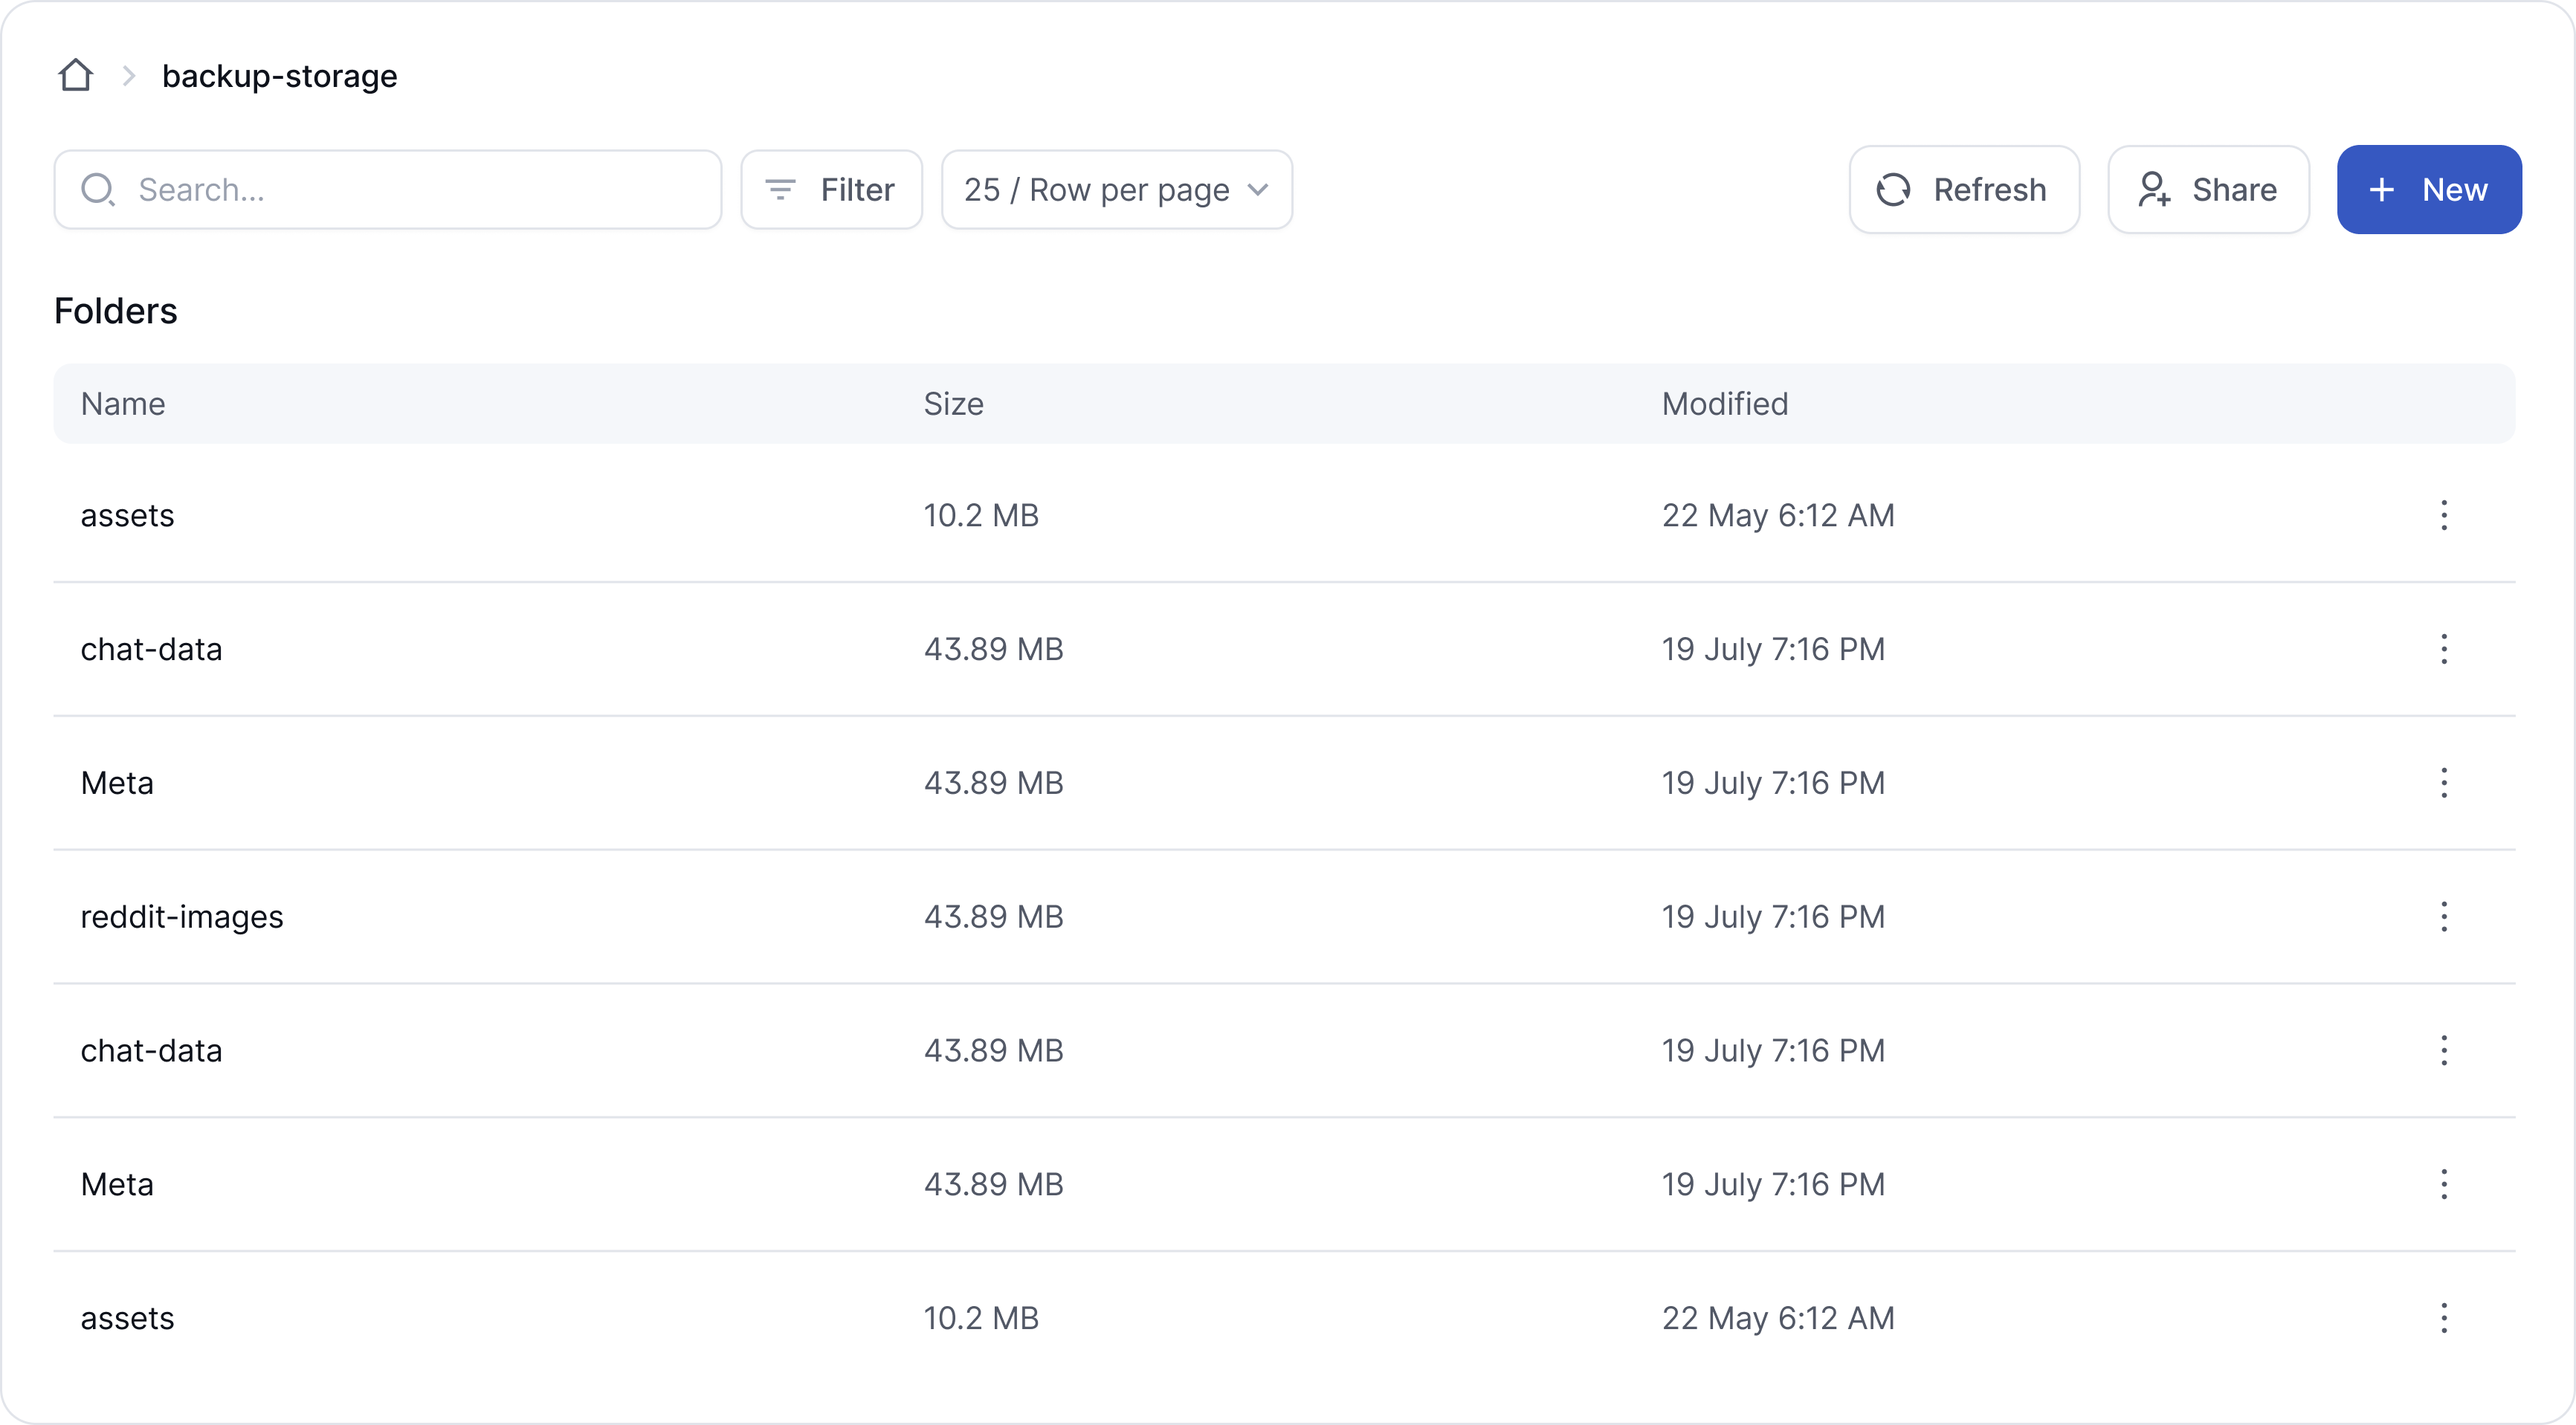
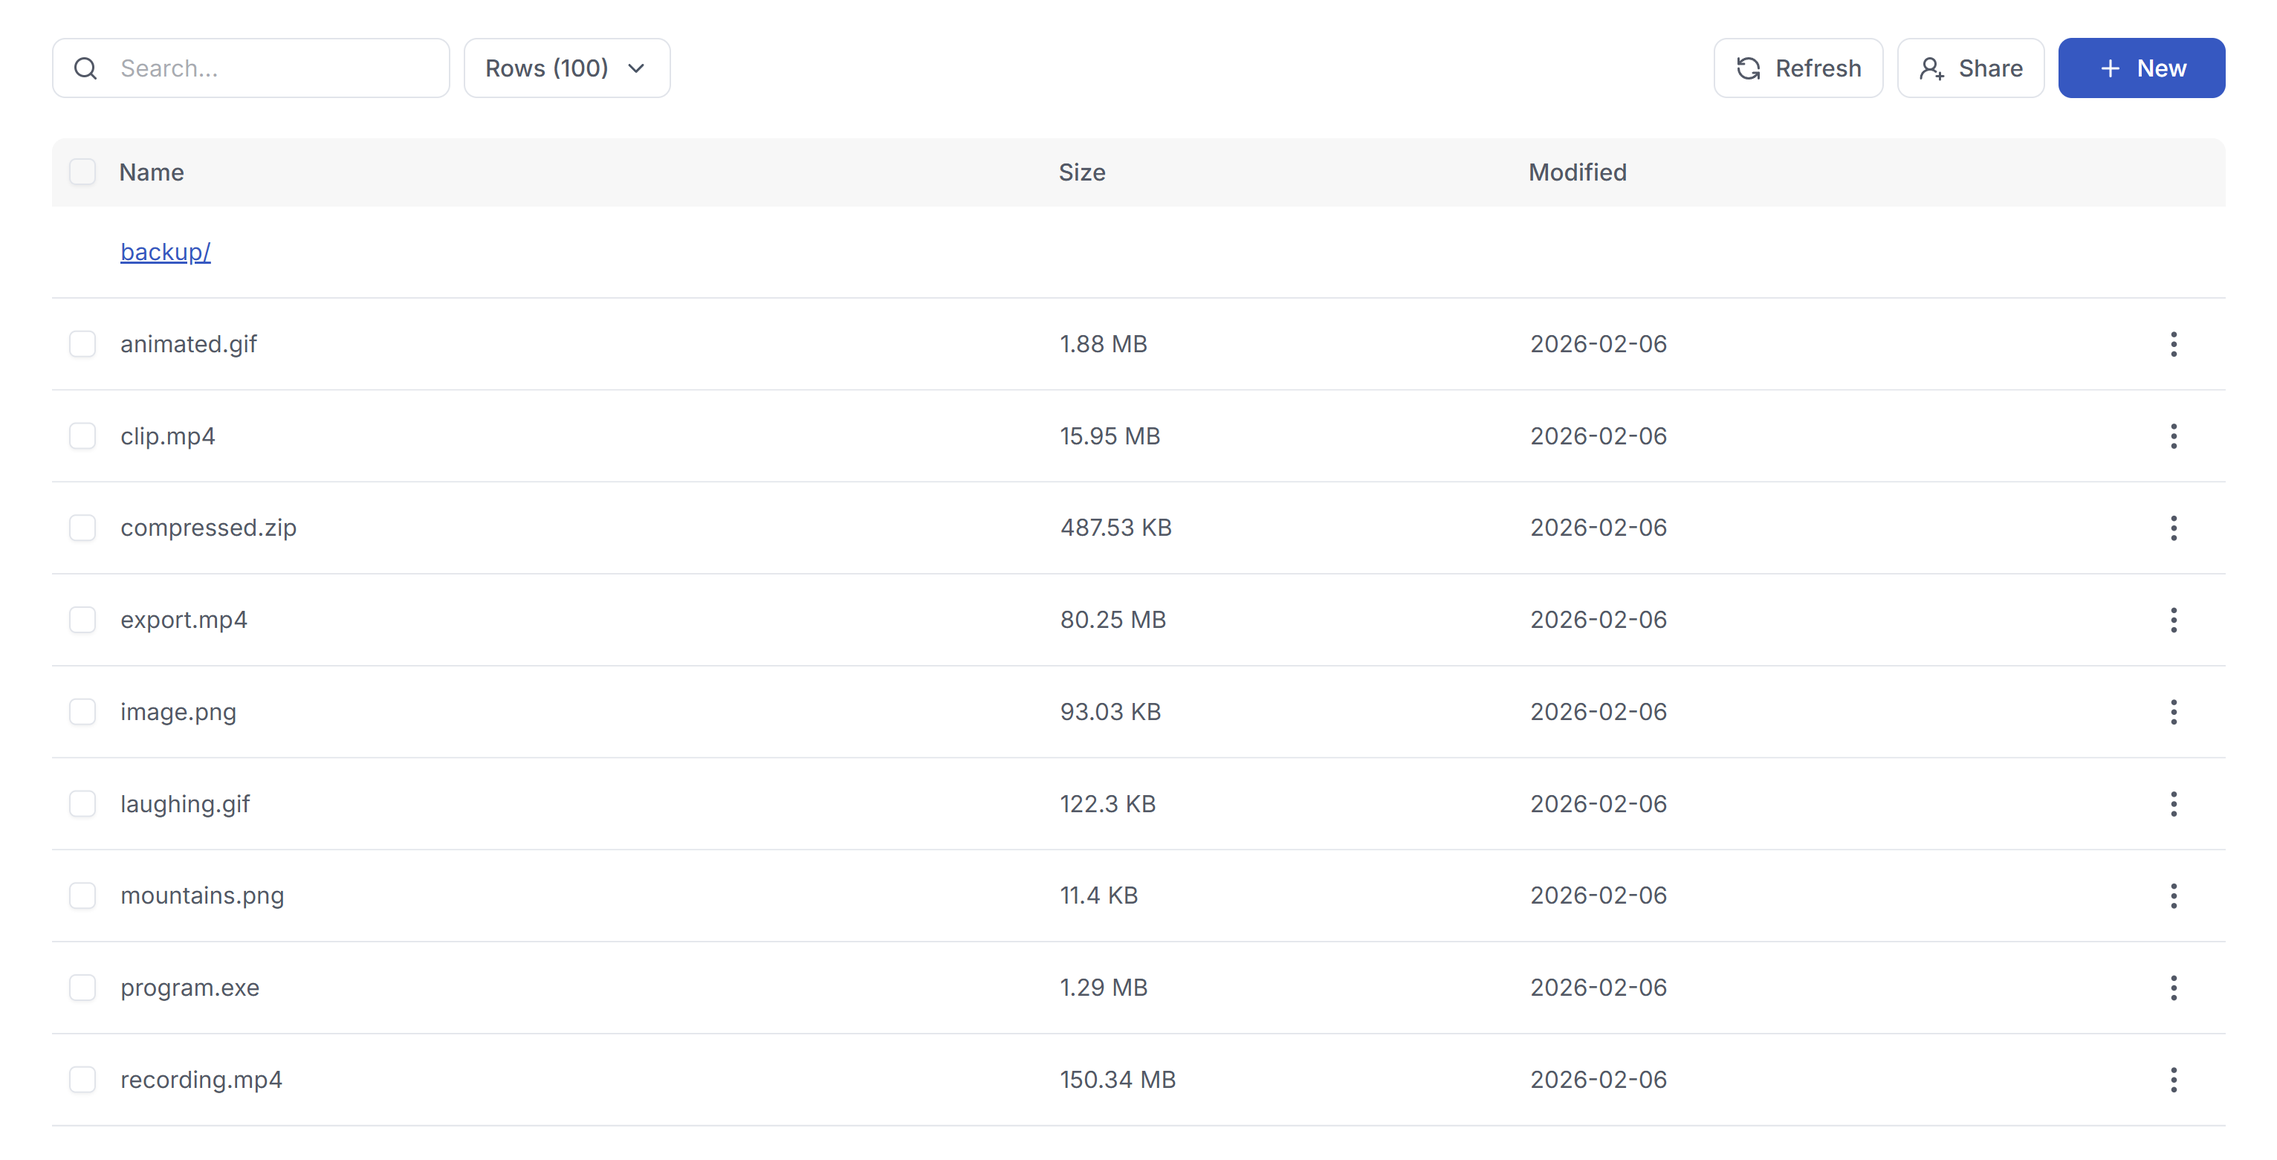
Fix landing page images

diff --git a/apps/landing/components/Landing/demo-block.tsx b/apps/landing/components/Landing/demo-block.tsx
@@ -13,9 +13,9 @@ const DemoBlock = () => {
                   <Image
                      src="/landing/objectview.png"
                      alt="Object View"
-                     width={3465}
-                     height={1917}
-                     className="select-none object-contain translate-y-[8%]"
+                     width={3064}
+                     height={1561}
+                     className="select-none object-contain translate-y-[8%] border rounded-xl"
                      draggable={false}
                   />
                </div>

diff --git a/apps/landing/components/Landing/intro-block.tsx b/apps/landing/components/Landing/intro-block.tsx
@@ -36,8 +36,8 @@ const IntroBlock = () => {
             <Image
                src="/landing/bucketview.png"
                alt="Home Overview"
-               width={600}
-               height={500}
+               width={4320}
+               height={2700}
                quality={100}
                priority
                draggable={false}
